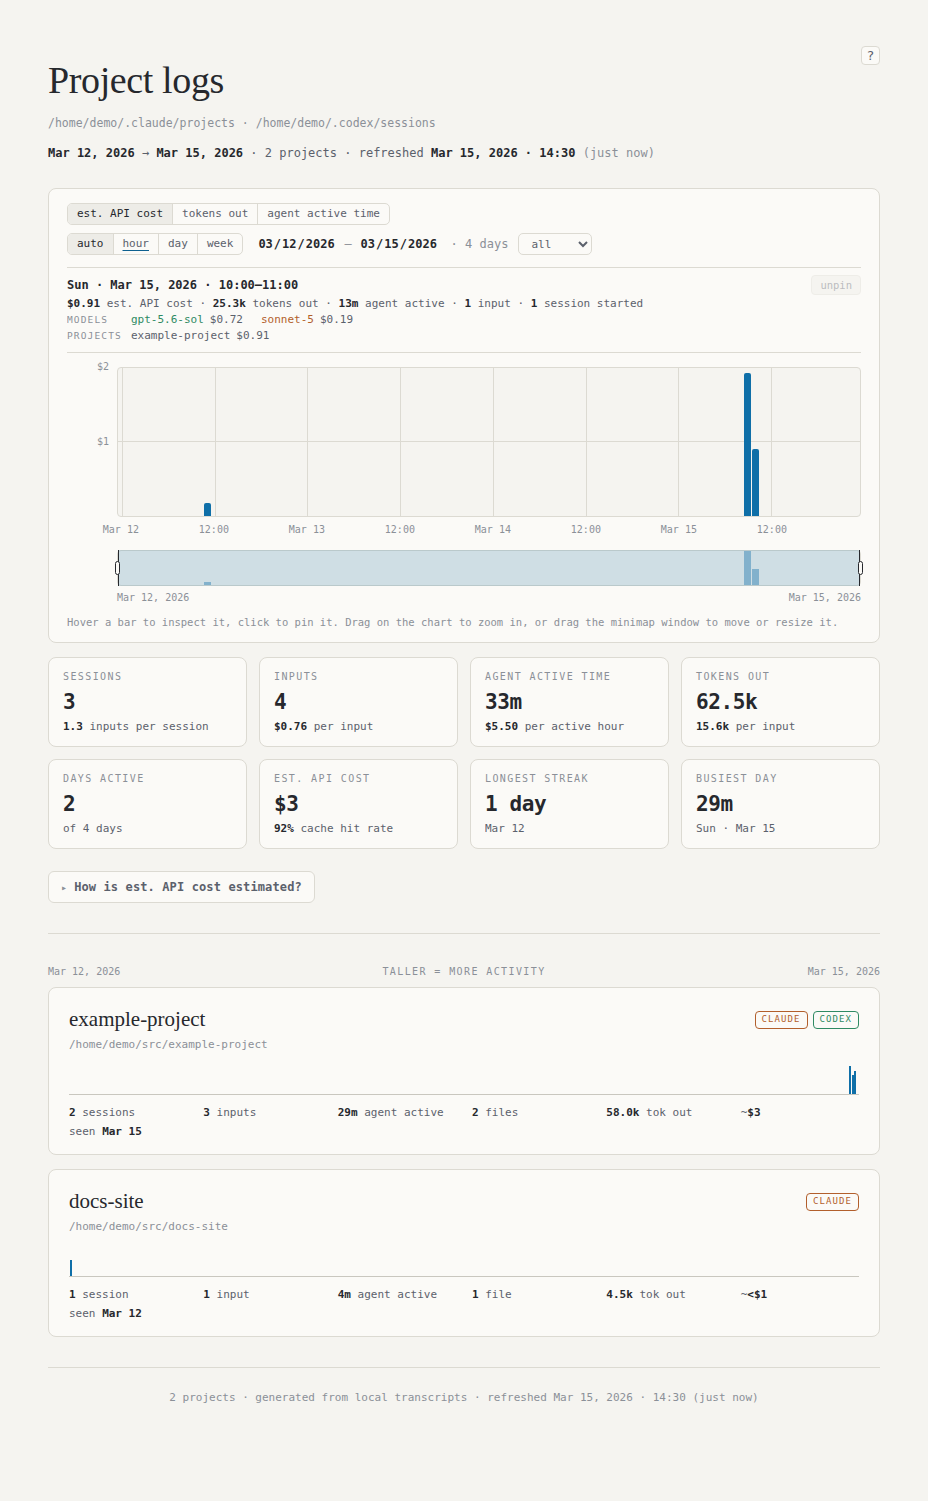
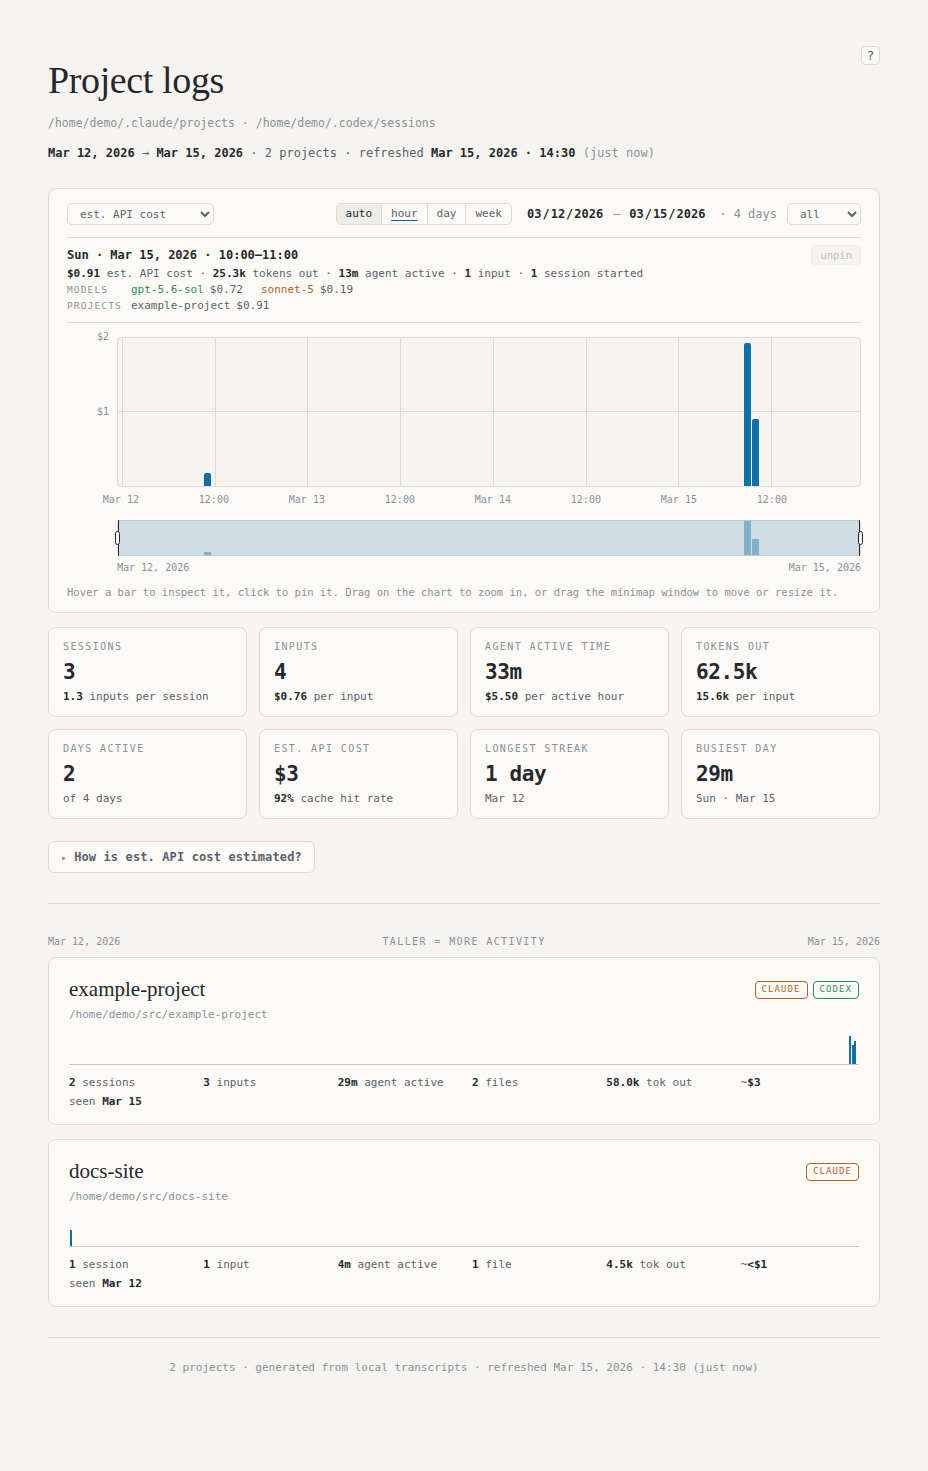
Choose the chart metric from a select (#16)
The usage explorer's metric, est. API cost, tokens out, or agent
active time, was a three-button group at the left of the toolbar. It
is now a select in the same style as the window select at the right.
The page script sets the select when the metric comes from the URL,
and a change on the select repaints the chart and the minimap and
mirrors the metric in the query string as before. The note in the
shortcuts dialog's chart group now reads "Keys act while chart has
focus. To focus, click a bar, or tab to the chart."

The usage spec selects options instead of clicking buttons, and the
two index README images and the index dialog image are regenerated.

Assisted-by: Claude Code

diff --git a/tests/visual/usage.spec.js b/tests/visual/usage.spec.js
@@ -61,8 +61,8 @@ test('window presets, dates, and the hash recompute the cards', async ({ page })
   await expect(page.locator('.interval.eff')).toHaveText('hour');
   const staticBars = await page.locator('#uPlot .ubars').innerHTML();
   const staticAxis = await page.locator('#uAxis').innerHTML();
-  await page.click('.metric[data-m="tok"]');
-  await page.click('.metric[data-m="cost"]');
+  await page.selectOption('#uMet', 'tok');
+  await page.selectOption('#uMet', 'cost');
   expectSameBars(await page.locator('#uPlot .ubars').innerHTML(), staticBars);
   expect(await page.locator('#uAxis').innerHTML()).toBe(staticAxis);
   expect((await page.locator('.uaxis').innerText()).replace(/\s+/g, ' '))
@@ -105,7 +105,8 @@ test('window presets, dates, and the hash recompute the cards', async ({ page })
   // example-project day carries two sessions and $3 of est. API cost.
   await page.goto(pathToFileURL(path.join(siteDir, 'index.html')).href + '?from=2026-03-15&to=2026-03-15&metric=act&interval=day');
   expect(await windowText(page)).toBe('2026-03-15 2026-03-15 · 1 day');
-  await expect(page.locator('.metric.on')).toHaveText('agent active time');
+  await expect(page.locator('#uMet')).toHaveValue('act');
+  await expect(page.locator('#uMet option:checked')).toHaveText('agent active time');
   expect((await cardText(page)).replace(/\s+/g, ' ')).toContain('SESSIONS 2 1.5 inputs per session INPUTS 3');
   // 29 minutes on the busiest day rounds up to a 40-minute top gridline.
   await expect(page.locator('#uYTop')).toHaveText('40m');
@@ -146,7 +147,7 @@ test('window presets, dates, and the hash recompute the cards', async ({ page })
   // Back to everything: the recomputed tiles equal the server render exactly,
   // the query clears, and no state change moved the page.
   await page.selectOption('#uWin', 'all');
-  await page.click('.metric[data-m="cost"]');
+  await page.selectOption('#uMet', 'cost');
   await page.click('.interval[data-i="auto"]');
   expect(await cardText(page)).toBe(serverCards);
   expect(new URL(page.url()).search).toBe('');

diff --git a/generate_site.py b/generate_site.py
@@ -124,7 +124,7 @@ def help_html(*, project, stepper=False, explorer=False, ribbon=False):
             ("drag across the chart", "zoom"),
             ("drag the strip below", "move / resize the window"),
         ]))
-    notes = {"Chart": "The keys act while the chart has focus: click a bar, or tab to the chart."}
+    notes = {"Chart": "Keys act while chart has focus. To focus, click a bar, or tab to the chart."}
     sections = "".join(
         f'<section><h3>{title}</h3>'
         + (f'<p class="help-note">{notes[title]}</p>' if title in notes else "")
@@ -1035,8 +1035,8 @@ def _usage_html(series):
               f'{_fmt_money(v) + " est. API cost" if bk[1] else "no activity"}'
               for bk, v in zip(buckets, vals)]
     metrics = "".join(
-        f'<button type="button" class="metric{" on" if k == "cost" else ""}" '
-        f'data-m="{k}">{esc(label)}</button>' for k, label in USAGE_METRICS)
+        f'<option value="{k}"{" selected" if k == "cost" else ""}>{esc(label)}</option>'
+        for k, label in USAGE_METRICS)
     options = "".join(f'<option value="{p}">{p}d</option>' for p in USAGE_PRESETS)
     intervals = []
     for k in USAGE_INTERVALS:
@@ -1059,7 +1059,7 @@ def _usage_html(series):
     return (
         '<section class="usage" id="usage">'
         '<div class="uhead">'
-        f'<div class="seg umet" role="group" aria-label="chart metric">{metrics}</div>'
+        f'<select class="uwin umet" id="uMet" aria-label="chart metric">{metrics}</select>'
         '<div class="uctl">'
         f'<div class="seg uint" role="group" aria-label="plotting interval">{"".join(intervals)}</div>'
         '<div class="urange">'
@@ -2066,7 +2066,7 @@ const bars=plot.querySelector('.ubars'), mbars=mini.querySelector('.ubars');
 const yTop=$('uYTop'), yMid=$('uYMid'), daysEl=$('uDays');
 const fromIn=$('uFrom'), toIn=$('uTo'), winSel=$('uWin');
 const roDate=$('uRoDate'), ro1=$('uRo1'), ro2=$('uRo2'), ro3=$('uRo3'), pinBtn=$('uPin');
-const metrics=[...box.querySelectorAll('.metric')], intervals=[...box.querySelectorAll('.interval')];
+const metSel=$('uMet'), intervals=[...box.querySelectorAll('.interval')];
 const tiles={}; document.querySelectorAll('.stat[data-k]').forEach(el=>{tiles[el.dataset.k]=el;});
 let metric='cost', interval='auto', A=0, B=N-1, hot=-1, pinned=-1, cur=[], eff='day';
 const effective=()=>interval==='auto'?autoInterval(B-A+1):interval;
@@ -2217,8 +2217,7 @@ function syncUrl(){ const q=stateParams(), want=location.pathname+(q?'?'+q:'')+l
   try{ history.replaceState(null,'',want); }
   catch(e){ history.replaceState(null,'',location.pathname+location.search+(q?'#'+q:'')); } }
 function applyPreset(p){ const t=clamp(todayIdx()); if(p==='all') setWin(0,N-1); else setWin(t-(+p)+1,t); }
-function setMetric(k){ if(k===metric) return; metric=k;
-  metrics.forEach(b=>b.classList.toggle('on',b.dataset.m===k)); renderMini(); render(); }
+function setMetric(k){ if(k===metric) return; metric=k; metSel.value=k; renderMini(); render(); }
 function setIntervalMode(k){ if(k===interval) return; interval=k; pinned=-1; render(); }
 function readUrl(){
   let q=new URLSearchParams(location.search); if(![...q.keys()].length) q=new URLSearchParams(location.hash.slice(1));
@@ -2232,7 +2231,7 @@ function readUrl(){
 // ---- controls
 winSel.addEventListener('change',()=>{ if(winSel.value==='custom') return;
   applyPreset(winSel.value); winSel.value=presetOf()||'custom'; syncUrl(); });   // "7d" may already be "all"
-metrics.forEach(b=>b.addEventListener('click',()=>{setMetric(b.dataset.m); syncUrl();}));
+metSel.addEventListener('change',()=>{setMetric(metSel.value); syncUrl();});
 intervals.forEach(b=>b.addEventListener('click',()=>{ if(!b.disabled){setIntervalMode(b.dataset.i); syncUrl();} }));
 // a from-date past the to-date pulls the to-date along (and the reverse), never swaps them
 const onDate=e=>{ if(!fromIn.value||!toIn.value) return;

diff --git a/README.md b/README.md
@@ -109,8 +109,8 @@ The top of the project index summarizes activity across every project and links
 to the method and token counts behind its API cost estimate.
 
 The usage explorer above the tiles charts one metric per hour, day, or week:
-est. API cost, tokens out, or agent active time, chosen on the left of the
-toolbar. The interval control on the right starts on `auto`, which plots
+est. API cost, tokens out, or agent active time, chosen from the select on
+the left of the toolbar. The interval control on the right starts on `auto`, which plots
 hours for a window of 31 days or less, days up to 26 weeks, and weeks beyond,
 and underlines the interval in effect; `hour`, `day`, and `week` fix it, and
 hourly bars need a window of 31 days or fewer. The window select offers `7d`,
